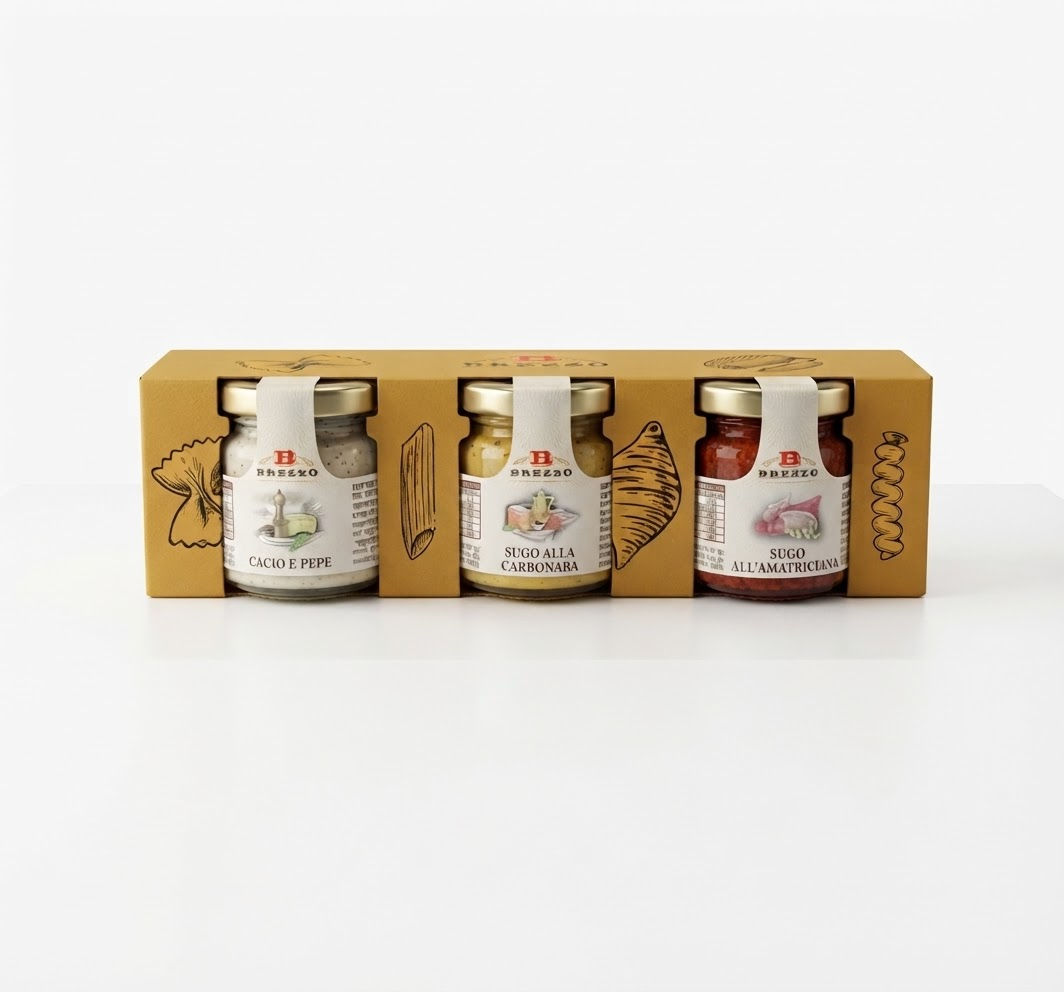
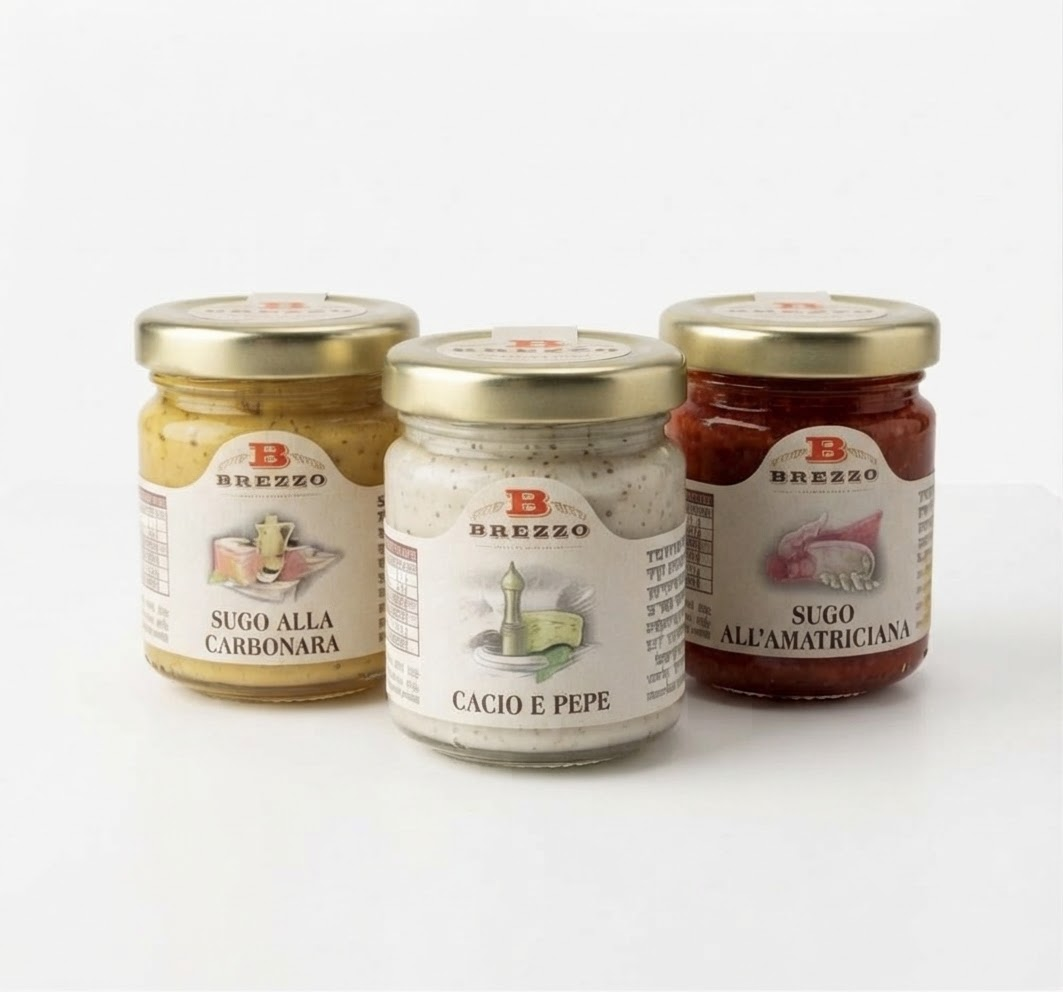
Add Salsa Dolce (Brezzo) sauces and swap Tris di Sughi photo
New products: Salsa Dolce Pere e Zenzero and Salsa Dolce Peperone
Senapato, with descriptions in IT/EN/dialect. Also swapped the Tris
di Sughi Brezzo photo for a jars-only studio shot instead of the
boxed gift-set photo.

diff --git a/site/app.js b/site/app.js
@@ -1535,6 +1535,12 @@ const MENU_DISHES = [{
   name: 'Tris di Specialità al Tartufo Brezzo',
   src: 'images/dishes/tris_tartufo_brezzo.png'
 }, {
+  name: 'Salsa Dolce Pere e Zenzero Brezzo',
+  src: 'images/dishes/salsa_dolce_brezzo.jpg'
+}, {
+  name: 'Salsa Dolce Peperone Senapato Brezzo',
+  src: 'images/dishes/salsa_dolce_brezzo.jpg'
+}, {
   name: 'Confetture Albicocca e Pesca Lazzaris',
   src: 'images/dishes/confetture_albicocca_pesca_lazzaris.jpg'
 }, {
@@ -1920,6 +1926,8 @@ const DISH_DESCRIPTIONS = {
   'Amaretti Morbidi al Limone Brezzo': 'Amaretti morbidi Brezzo con succo e scorza di limone non trattato, senza glutine.',
   'Tris di Sughi Brezzo': 'Confezione regalo Brezzo con tre sughi pronti: Cacio e Pepe, Sugo alla Carbonara, Sugo all\'Amatriciana.',
   'Tris di Specialità al Tartufo Brezzo': 'Confezione regalo Brezzo con tre specialità al tartufo: Sale con Tartufo, Salsa Tartufata, Crema di Tartufo Bianco.',
+  'Salsa Dolce Pere e Zenzero Brezzo': 'Salsa dolce Brezzo di pere e zenzero, ideale per accompagnare formaggi e carni bollite.',
+  'Salsa Dolce Peperone Senapato Brezzo': 'Salsa dolce Brezzo al peperone e senape, perfetta con formaggi e bolliti.',
   'Confetture Albicocca e Pesca Lazzaris': 'Confetture Lazzaris di albicocca e pesca, con solo zucchero d\'uva. Frutta selezionata dal gusto naturale e genuino.',
   'Gianduiotto Fondente Barbero': 'Gianduiotti fondenti D. Barbero di Asti, nella latta vintage da collezione. Cioccolato pregiato con nocciole del Piemonte.',
   'Olio Extra Vergine di Oliva Biologico Salvagno': 'Olio extravergine di oliva biologico Frantoio Salvagno, spremuto a freddo. Fruttato ed equilibrato, ideale a crudo.',
@@ -2064,6 +2072,8 @@ const DISH_DESCRIPTIONS_VEC = {
   'Amaretti Morbidi al Limone Brezzo': 'Amareti morbidi Brezzo co\' sugo e scorsa de limon no trata, sensa glutine.',
   'Tris di Sughi Brezzo': 'Pachéto regalo Brezzo co\' tre sughi pronti: Cacio e Pévare, Sugo a la Carbonara, Sugo a l\'Amatriciana.',
   'Tris di Specialità al Tartufo Brezzo': 'Pachéto regalo Brezzo co\' tre specialità al tartufo: Sal co\' Tartufo, Salsa Tartufàda, Crema de Tartufo Bianco.',
+  'Salsa Dolce Pere e Zenzero Brezzo': 'Salsa dolse Brezzo de pere e zenzero, giusta co\' i formaji e la carne bolìa.',
+  'Salsa Dolce Peperone Senapato Brezzo': 'Salsa dolse Brezzo al peperon e senàpa, giusta co\' i formaji e i bolìi.',
   'Confetture Albicocca e Pesca Lazzaris': 'Confeture Lazzaris de armelin e persego, co\' sol zùcaro d\'ua. Fruta sielta dal gusto natural e genuin.',
   'Gianduiotto Fondente Barbero': 'Gianduioti fondenti D. Barbero de Asti, in te la lata vintage da colessión. Ciocolàto fin co\' nosele del Piemonte.',
   'Olio Extra Vergine di Oliva Biologico Salvagno': 'Ojo estravèrgine biologico Frantoio Salvagno, sprémù a fredo. Fruità e equilibrà, giusto a crudo.',
@@ -2280,6 +2290,8 @@ const DISH_NAME_EN = {
   'Amaretti Morbidi al Limone Brezzo': 'Brezzo Soft Amaretti, Lemon',
   'Tris di Sughi Brezzo': 'Brezzo Ready Sauce Trio',
   'Tris di Specialità al Tartufo Brezzo': 'Brezzo Truffle Specialty Trio',
+  'Salsa Dolce Pere e Zenzero Brezzo': 'Brezzo Sweet Pear & Ginger Sauce',
+  'Salsa Dolce Peperone Senapato Brezzo': 'Brezzo Sweet Pepper & Mustard Sauce',
   'Gianduiotto Fondente Barbero': 'Barbero Dark Gianduiotto',
   'Olio Extra Vergine di Oliva Biologico Salvagno': 'Salvagno Organic Extra Virgin Olive Oil',
   'Crema di Pistacchio': 'Pistachio Pesto',
@@ -2416,6 +2428,8 @@ const DISH_DESCRIPTIONS_EN = {
   'Amaretti Morbidi al Limone Brezzo': 'Soft Brezzo amaretti with untreated lemon juice and zest, gluten-free.',
   'Tris di Sughi Brezzo': 'Brezzo gift set with three ready-made sauces: Cacio e Pepe, Carbonara Sauce, Amatriciana Sauce.',
   'Tris di Specialità al Tartufo Brezzo': 'Brezzo gift set with three truffle specialties: Truffle Salt, Truffle Sauce, White Truffle Cream.',
+  'Salsa Dolce Pere e Zenzero Brezzo': 'Brezzo sweet pear and ginger sauce, ideal with cheeses and boiled meats.',
+  'Salsa Dolce Peperone Senapato Brezzo': 'Brezzo sweet pepper and mustard sauce, perfect with cheeses and boiled meats.',
   'Confetture Albicocca e Pesca Lazzaris': 'Lazzaris apricot and peach jams, sweetened only with grape sugar. Selected fruit with a natural, genuine taste.',
   'Gianduiotto Fondente Barbero': 'Dark gianduiotti by D. Barbero of Asti, in a collectible vintage tin. Fine chocolate with Piedmont hazelnuts.',
   'Olio Extra Vergine di Oliva Biologico Salvagno': 'Organic extra virgin olive oil by Frantoio Salvagno, cold-pressed. Fruity and balanced, ideal used raw.',
@@ -2465,7 +2479,7 @@ const MENU_SECTIONS = [{
   titleVec: 'Roba Bòna',
   subtitle: 'Selezioni di stagione e promozioni',
   subtitleEn: 'Seasonal selections and specials',
-  dishes: ['Selezione di Formaggi', 'Prodotti Tipici Rovigo', "Foglie d'Ulivo agli Spinaci", 'Olio Extra Vergine di Oliva Biologico Salvagno', 'Torronfetta Barbero', 'Gianduiotto Fondente Barbero', 'Confettura di Mirtilli Brezzo', "Miele all'Arancio Brezzo", 'Atlante dei Mieli Brezzo', 'Miele di Castagno Brezzo', 'Miele del Favo Acacia Brezzo', 'Miele di Acacia Biologico Brezzo', 'Miele di Acacia Brezzo', 'Crema Fondente Brezzo', 'Miele di Corbezzolo Brezzo', 'Assortimento Tisane Biologiche Brezzo', 'Amaretti Morbidi Misto Frutta Brezzo', 'Amaretti Morbidi al Limone Brezzo', 'Tris di Sughi Brezzo', 'Tris di Specialità al Tartufo Brezzo', 'Albicocche in Grappa Brezzo', 'Distillati Of Bonollo 1908', 'Porcini Tagliati Testa Nera', 'Marmellata di Limoni di Sicilia', 'Confetture Albicocca e Pesca Lazzaris', 'Cioccolato Laica', 'Pane di Semola Forte', 'Taralli Danieli', 'Confettura Extra Mistilli', 'Crema Zabaione con Marsala', 'Aceto Balsamico IGP Campari', 'Aceto Balsamico Oro Gold', "Sciroppo per l'inverno", 'Tonno di Carloforte', 'Babbi Dolcetorta al pistacchio', 'Cioccolato Origine', 'Prosciutto di Parma 24 Mesi', 'Prosciutto di San Daniele Magnum', 'Frutta in Acquavite Prunotto', 'Riso Acquerello 8 Anni', 'Fusilli di Pisa Martelli', 'Ragù di Cervo Regi', 'Grissini Il Panificio', 'Prosecco Astoria & Fongaro', 'Ciambelline Bergamini', 'Vini Assortiti', 'Specialità di Grano', 'Selezione Champagne e Spumanti', 'Bellavista Alma Grande Cuvée Brut', 'Crema di Pistacchio', 'Crema Dolce al Pistacchio', 'Torrone Assortimento', 'Panettone Tradizionale', 'Colomba Classica']
+  dishes: ['Selezione di Formaggi', 'Prodotti Tipici Rovigo', "Foglie d'Ulivo agli Spinaci", 'Olio Extra Vergine di Oliva Biologico Salvagno', 'Torronfetta Barbero', 'Gianduiotto Fondente Barbero', 'Confettura di Mirtilli Brezzo', "Miele all'Arancio Brezzo", 'Atlante dei Mieli Brezzo', 'Miele di Castagno Brezzo', 'Miele del Favo Acacia Brezzo', 'Miele di Acacia Biologico Brezzo', 'Miele di Acacia Brezzo', 'Crema Fondente Brezzo', 'Miele di Corbezzolo Brezzo', 'Assortimento Tisane Biologiche Brezzo', 'Amaretti Morbidi Misto Frutta Brezzo', 'Amaretti Morbidi al Limone Brezzo', 'Tris di Sughi Brezzo', 'Tris di Specialità al Tartufo Brezzo', 'Salsa Dolce Pere e Zenzero Brezzo', 'Salsa Dolce Peperone Senapato Brezzo', 'Albicocche in Grappa Brezzo', 'Distillati Of Bonollo 1908', 'Porcini Tagliati Testa Nera', 'Marmellata di Limoni di Sicilia', 'Confetture Albicocca e Pesca Lazzaris', 'Cioccolato Laica', 'Pane di Semola Forte', 'Taralli Danieli', 'Confettura Extra Mistilli', 'Crema Zabaione con Marsala', 'Aceto Balsamico IGP Campari', 'Aceto Balsamico Oro Gold', "Sciroppo per l'inverno", 'Tonno di Carloforte', 'Babbi Dolcetorta al pistacchio', 'Cioccolato Origine', 'Prosciutto di Parma 24 Mesi', 'Prosciutto di San Daniele Magnum', 'Frutta in Acquavite Prunotto', 'Riso Acquerello 8 Anni', 'Fusilli di Pisa Martelli', 'Ragù di Cervo Regi', 'Grissini Il Panificio', 'Prosecco Astoria & Fongaro', 'Ciambelline Bergamini', 'Vini Assortiti', 'Specialità di Grano', 'Selezione Champagne e Spumanti', 'Bellavista Alma Grande Cuvée Brut', 'Crema di Pistacchio', 'Crema Dolce al Pistacchio', 'Torrone Assortimento', 'Panettone Tradizionale', 'Colomba Classica']
 }];
 function MenuSection() {
   const [selected, setSelected] = useState(null);

diff --git a/site/src/app.jsx b/site/src/app.jsx
@@ -771,6 +771,8 @@ const MENU_DISHES = [
   { name: 'Amaretti Morbidi al Limone Brezzo', src: 'images/dishes/amaretti_limone_brezzo.png' },
   { name: 'Tris di Sughi Brezzo', src: 'images/dishes/tris_sughi_brezzo.jpg' },
   { name: 'Tris di Specialità al Tartufo Brezzo', src: 'images/dishes/tris_tartufo_brezzo.png' },
+  { name: 'Salsa Dolce Pere e Zenzero Brezzo', src: 'images/dishes/salsa_dolce_brezzo.jpg' },
+  { name: 'Salsa Dolce Peperone Senapato Brezzo', src: 'images/dishes/salsa_dolce_brezzo.jpg' },
   { name: 'Confetture Albicocca e Pesca Lazzaris', src: 'images/dishes/confetture_albicocca_pesca_lazzaris.jpg' },
   { name: 'Gianduiotto Fondente Barbero', src: 'images/dishes/gianduiotto_fondente_barbero.jpg' },
   { name: 'Olio Extra Vergine di Oliva Biologico Salvagno', src: 'images/dishes/olio_evo_biologico_salvagno.jpg' },
@@ -1084,6 +1086,8 @@ const DISH_DESCRIPTIONS = {
   'Amaretti Morbidi al Limone Brezzo': 'Amaretti morbidi Brezzo con succo e scorza di limone non trattato, senza glutine.',
   'Tris di Sughi Brezzo': 'Confezione regalo Brezzo con tre sughi pronti: Cacio e Pepe, Sugo alla Carbonara, Sugo all\'Amatriciana.',
   'Tris di Specialità al Tartufo Brezzo': 'Confezione regalo Brezzo con tre specialità al tartufo: Sale con Tartufo, Salsa Tartufata, Crema di Tartufo Bianco.',
+  'Salsa Dolce Pere e Zenzero Brezzo': 'Salsa dolce Brezzo di pere e zenzero, ideale per accompagnare formaggi e carni bollite.',
+  'Salsa Dolce Peperone Senapato Brezzo': 'Salsa dolce Brezzo al peperone e senape, perfetta con formaggi e bolliti.',
   'Confetture Albicocca e Pesca Lazzaris': 'Confetture Lazzaris di albicocca e pesca, con solo zucchero d\'uva. Frutta selezionata dal gusto naturale e genuino.',
   'Gianduiotto Fondente Barbero': 'Gianduiotti fondenti D. Barbero di Asti, nella latta vintage da collezione. Cioccolato pregiato con nocciole del Piemonte.',
   'Olio Extra Vergine di Oliva Biologico Salvagno': 'Olio extravergine di oliva biologico Frantoio Salvagno, spremuto a freddo. Fruttato ed equilibrato, ideale a crudo.',
@@ -1231,6 +1235,8 @@ const DISH_DESCRIPTIONS_VEC = {
   'Amaretti Morbidi al Limone Brezzo': 'Amareti morbidi Brezzo co\' sugo e scorsa de limon no trata, sensa glutine.',
   'Tris di Sughi Brezzo': 'Pachéto regalo Brezzo co\' tre sughi pronti: Cacio e Pévare, Sugo a la Carbonara, Sugo a l\'Amatriciana.',
   'Tris di Specialità al Tartufo Brezzo': 'Pachéto regalo Brezzo co\' tre specialità al tartufo: Sal co\' Tartufo, Salsa Tartufàda, Crema de Tartufo Bianco.',
+  'Salsa Dolce Pere e Zenzero Brezzo': 'Salsa dolse Brezzo de pere e zenzero, giusta co\' i formaji e la carne bolìa.',
+  'Salsa Dolce Peperone Senapato Brezzo': 'Salsa dolse Brezzo al peperon e senàpa, giusta co\' i formaji e i bolìi.',
   'Confetture Albicocca e Pesca Lazzaris': 'Confeture Lazzaris de armelin e persego, co\' sol zùcaro d\'ua. Fruta sielta dal gusto natural e genuin.',
   'Gianduiotto Fondente Barbero': 'Gianduioti fondenti D. Barbero de Asti, in te la lata vintage da colessión. Ciocolàto fin co\' nosele del Piemonte.',
   'Olio Extra Vergine di Oliva Biologico Salvagno': 'Ojo estravèrgine biologico Frantoio Salvagno, sprémù a fredo. Fruità e equilibrà, giusto a crudo.',
@@ -1372,6 +1378,7 @@ const DISH_NAME_EN = {
   'Miele di Corbezzolo Brezzo': 'Brezzo Strawberry Tree Honey', 'Assortimento Tisane Biologiche Brezzo': 'Brezzo Organic Herbal Tea Assortment',
   'Amaretti Morbidi Misto Frutta Brezzo': 'Brezzo Soft Amaretti, Mixed Fruit', 'Amaretti Morbidi al Limone Brezzo': 'Brezzo Soft Amaretti, Lemon',
   'Tris di Sughi Brezzo': 'Brezzo Ready Sauce Trio', 'Tris di Specialità al Tartufo Brezzo': 'Brezzo Truffle Specialty Trio',
+  'Salsa Dolce Pere e Zenzero Brezzo': 'Brezzo Sweet Pear & Ginger Sauce', 'Salsa Dolce Peperone Senapato Brezzo': 'Brezzo Sweet Pepper & Mustard Sauce',
   'Gianduiotto Fondente Barbero': 'Barbero Dark Gianduiotto', 'Olio Extra Vergine di Oliva Biologico Salvagno': 'Salvagno Organic Extra Virgin Olive Oil',
   'Crema di Pistacchio': 'Pistachio Pesto', 'Crema Dolce al Pistacchio': 'Sweet Pistachio Spread',
   'Torrone Assortimento': 'Assorted Torrone',
@@ -1506,6 +1513,8 @@ const DISH_DESCRIPTIONS_EN = {
   'Amaretti Morbidi al Limone Brezzo': 'Soft Brezzo amaretti with untreated lemon juice and zest, gluten-free.',
   'Tris di Sughi Brezzo': 'Brezzo gift set with three ready-made sauces: Cacio e Pepe, Carbonara Sauce, Amatriciana Sauce.',
   'Tris di Specialità al Tartufo Brezzo': 'Brezzo gift set with three truffle specialties: Truffle Salt, Truffle Sauce, White Truffle Cream.',
+  'Salsa Dolce Pere e Zenzero Brezzo': 'Brezzo sweet pear and ginger sauce, ideal with cheeses and boiled meats.',
+  'Salsa Dolce Peperone Senapato Brezzo': 'Brezzo sweet pepper and mustard sauce, perfect with cheeses and boiled meats.',
   'Confetture Albicocca e Pesca Lazzaris': 'Lazzaris apricot and peach jams, sweetened only with grape sugar. Selected fruit with a natural, genuine taste.',
   'Gianduiotto Fondente Barbero': 'Dark gianduiotti by D. Barbero of Asti, in a collectible vintage tin. Fine chocolate with Piedmont hazelnuts.',
   'Olio Extra Vergine di Oliva Biologico Salvagno': 'Organic extra virgin olive oil by Frantoio Salvagno, cold-pressed. Fruity and balanced, ideal used raw.',
@@ -1675,6 +1684,8 @@ const MENU_SECTIONS = [
       'Amaretti Morbidi al Limone Brezzo',
       'Tris di Sughi Brezzo',
       'Tris di Specialità al Tartufo Brezzo',
+      'Salsa Dolce Pere e Zenzero Brezzo',
+      'Salsa Dolce Peperone Senapato Brezzo',
       'Albicocche in Grappa Brezzo',
       'Distillati Of Bonollo 1908',
       'Porcini Tagliati Testa Nera',
